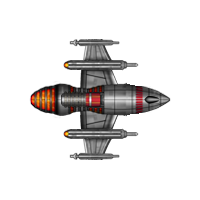
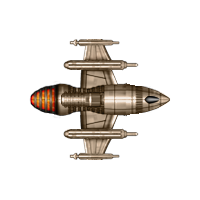
img

Changed region(s): [[0.15, 0.18, 0.87, 0.81]]

diff --git a/source/server/model/ships/raiders/skiff.php b/source/server/model/ships/raiders/skiff.php
@@ -8,7 +8,7 @@ class Skiff extends MediumShip{
 	$this->faction = "Raiders";
         $this->phpclass = "Skiff";
 //        $this->imagePath = "img/ships/sloop.png"; //needs to be changed
-        $this->imagePath = "img/ships/skiff.png"; 
+        $this->imagePath = "img/ships/RaiderSkiff.png"; 
         $this->shipClass = "Skiff";
         $this->canvasSize = 70;
         

diff --git a/source/server/model/ships/raiders/hawk.php b/source/server/model/ships/raiders/hawk.php
@@ -7,7 +7,7 @@ class Hawk extends MediumShipLeftRight{
 		$this->pointCost = 210;
 		$this->faction = "Raiders";
         $this->phpclass = "Hawk";
-        $this->imagePath = "img/ships/drazi/DraziStareagle.png"; 
+        $this->imagePath = "img/ships/RaiderHawkFrigate.png"; 
         $this->shipClass = "Hawk Frigate";
         $this->canvasSize = 128;
         
